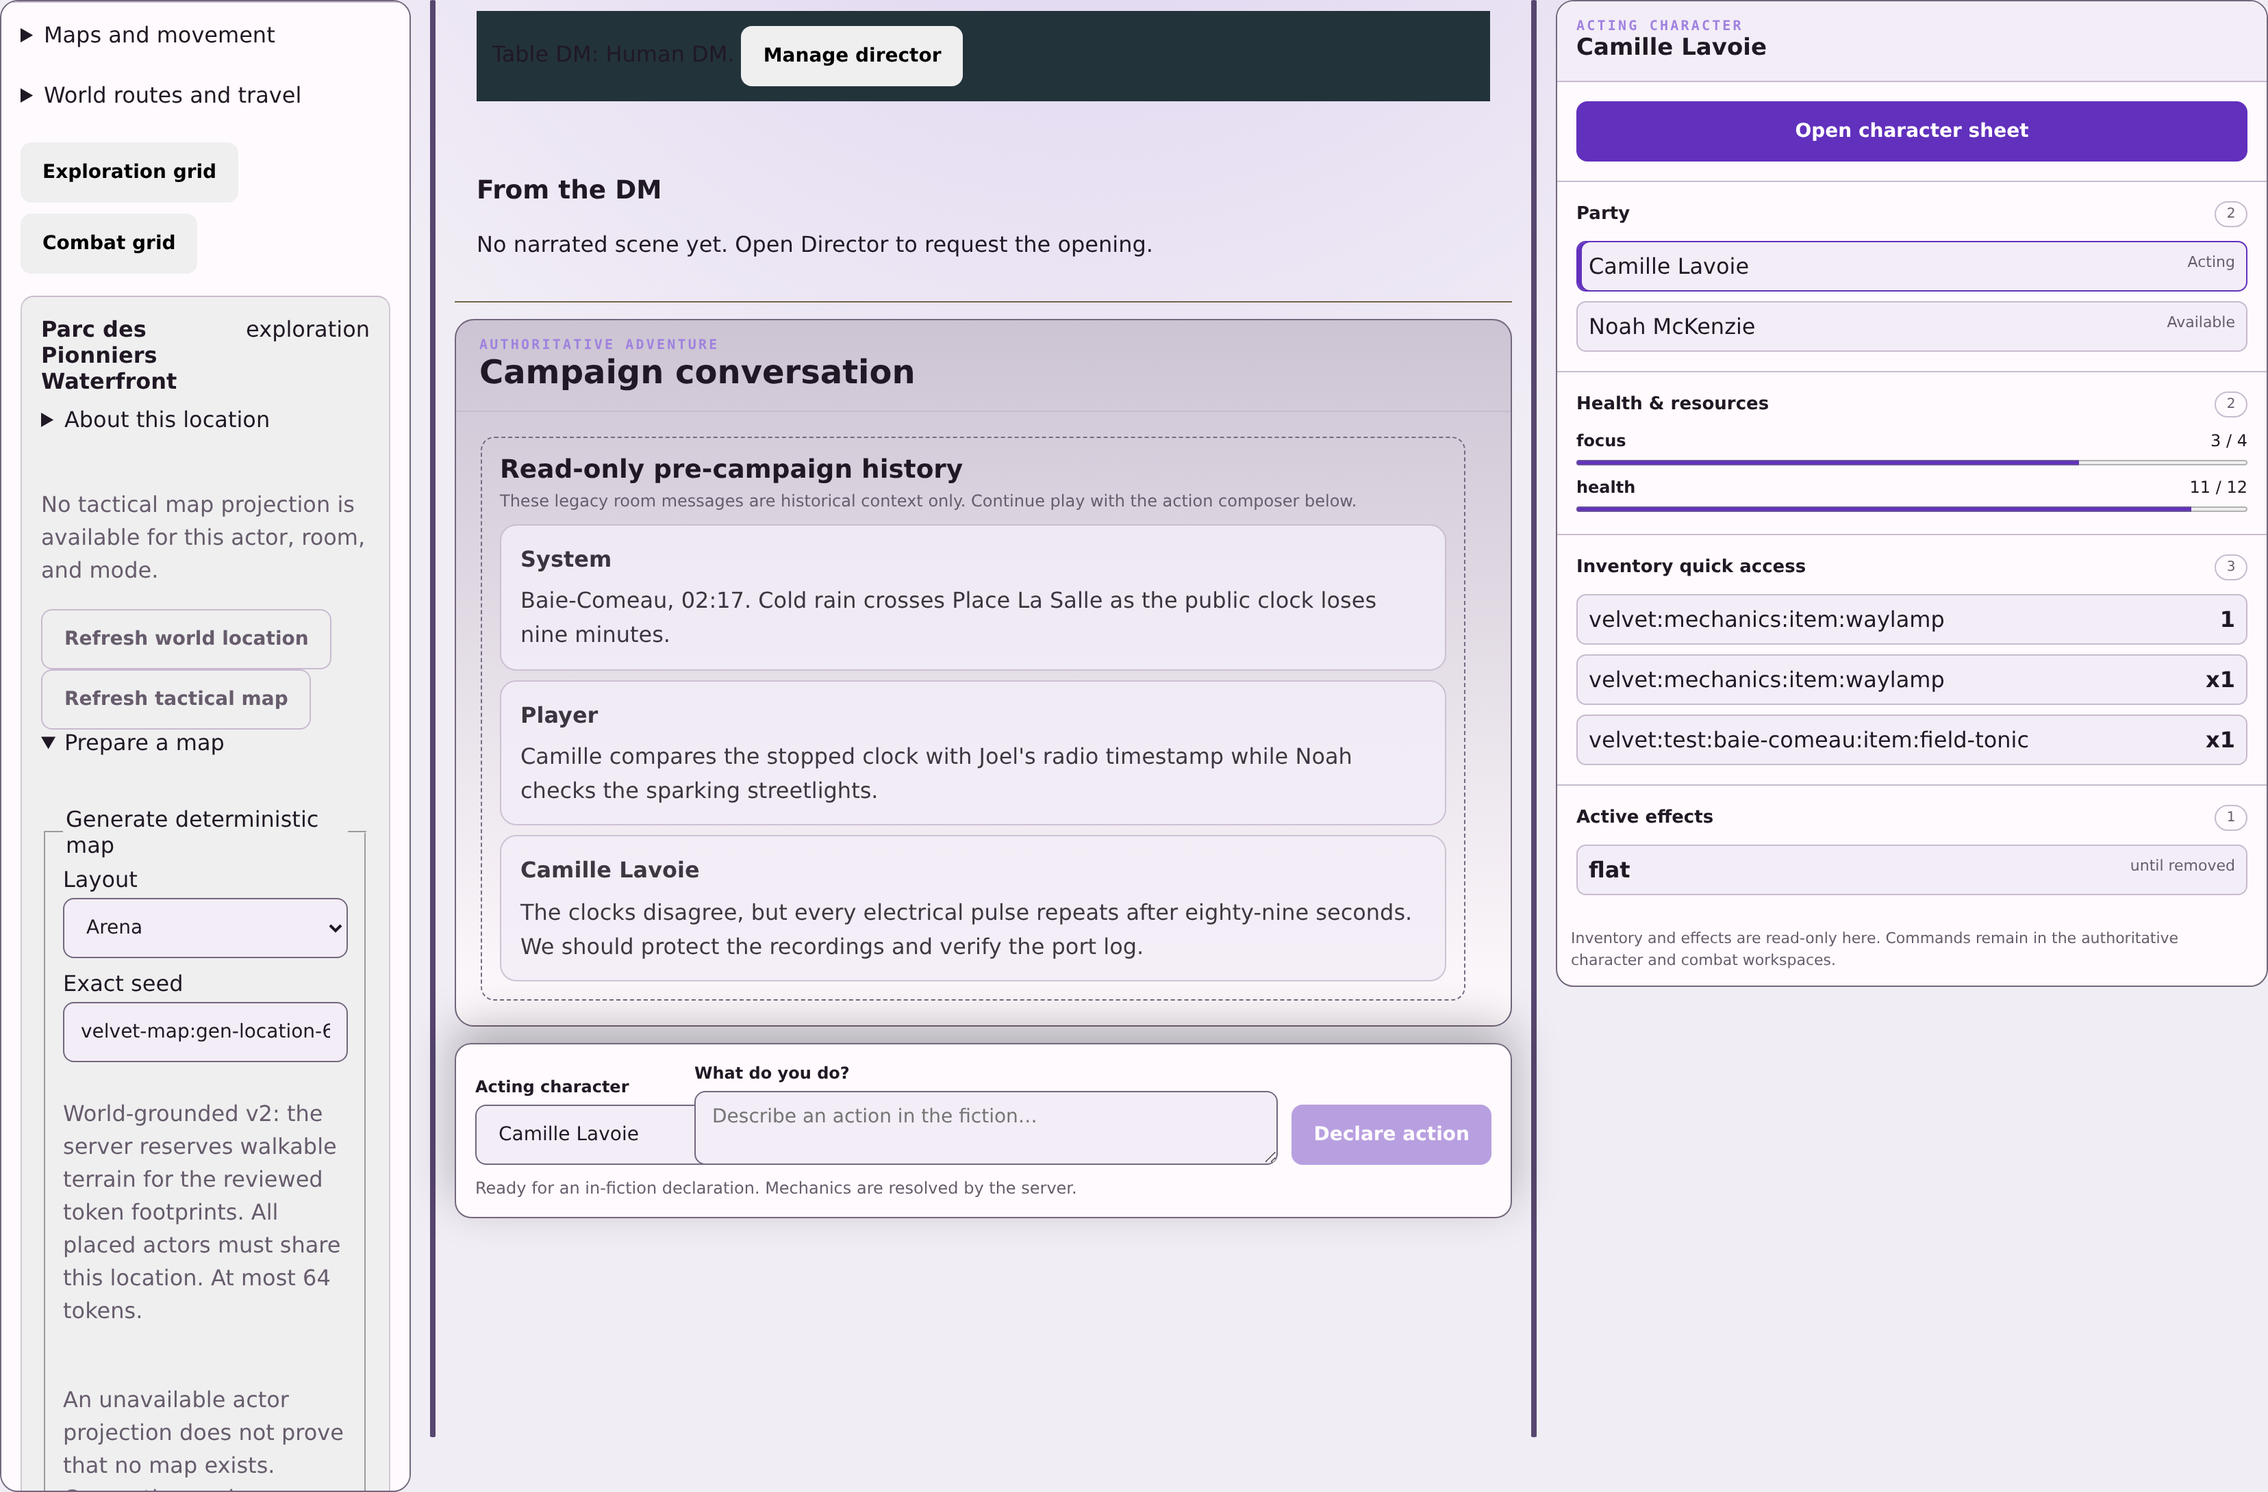
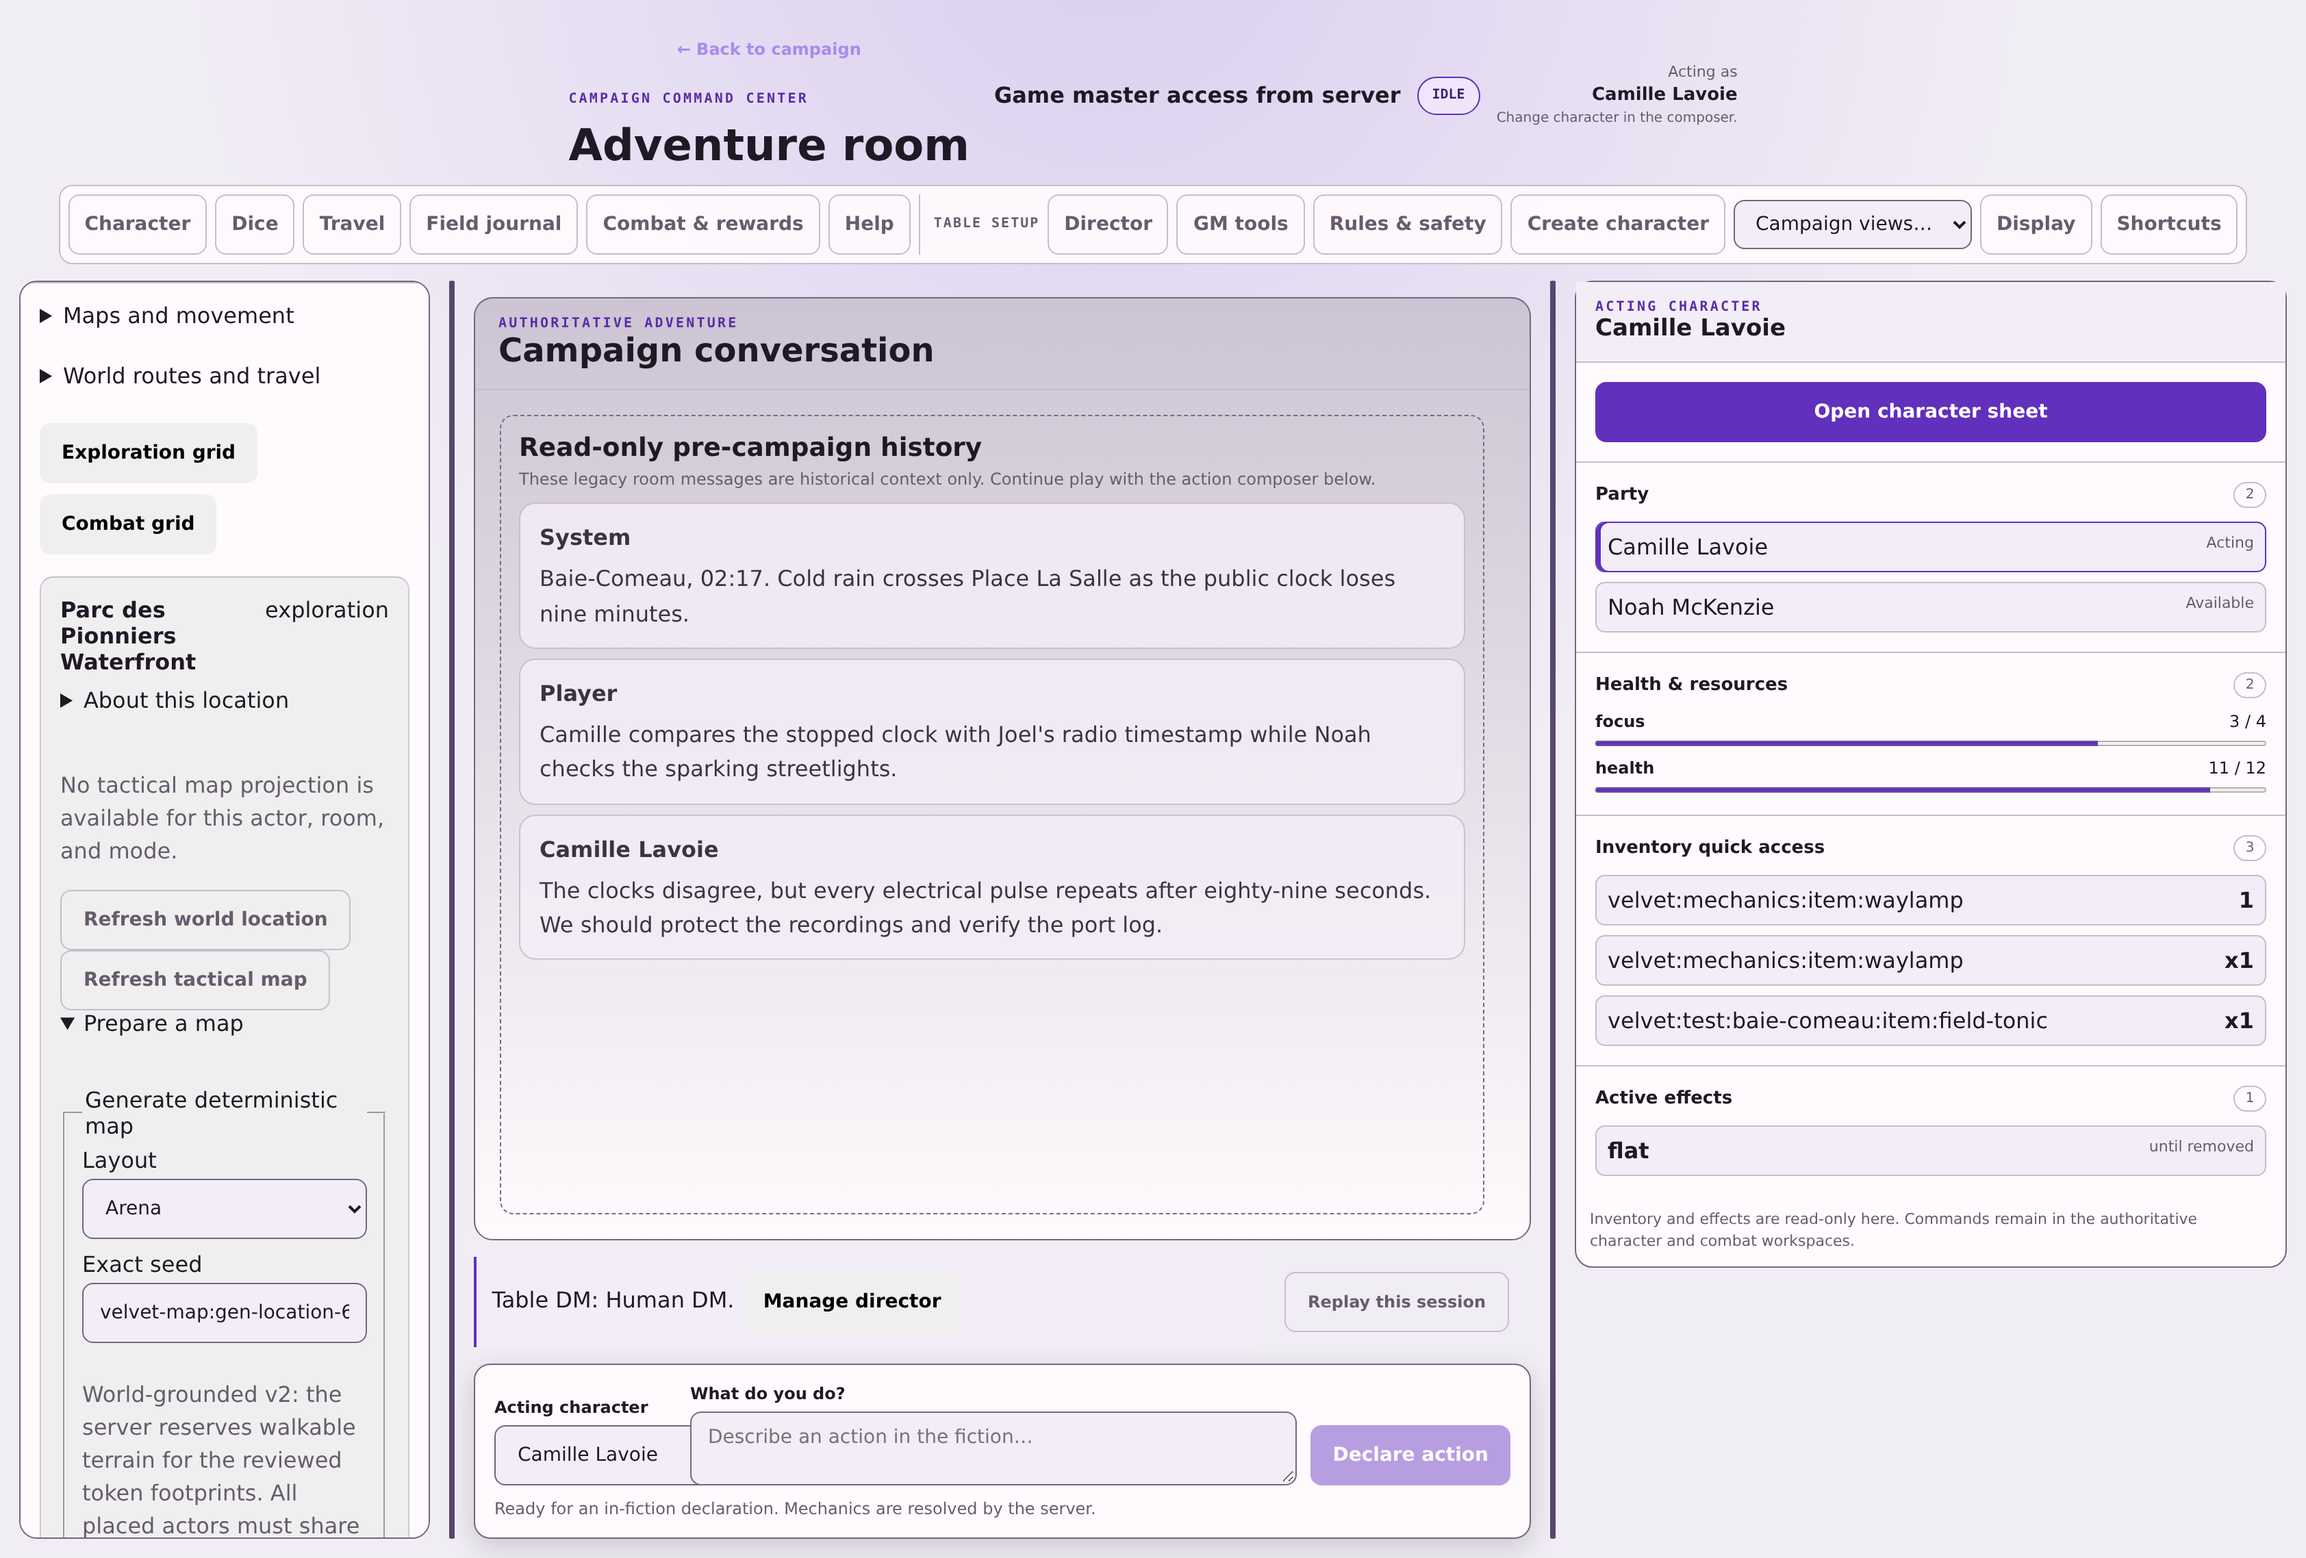
docs: refresh the README screenshots at high resolution
Replaces the seven README screenshots with fresh captures of the seeded, provider-free Baie-Comeau campaign at 1920x1200 (2x). The command center shot now shows the full surface including the separated session/table-setup tool groups, and the tool shots focus on the opened panel so their controls stay legible when scaled down. The cast shot becomes cast-factions, showing the NPC roster, private preparation, factions, and standings.

The capture script is rewritten to shoot the full command center chrome, scroll the tools pane to the opened tool, load a completed combat before capturing the tracker, and cap tall pages. Updates the README captions to match.

diff --git a/README.md b/README.md
@@ -46,9 +46,9 @@ These views are captured from the seeded, provider-free Baie-Comeau campaign at 
 
 ![Campaign library with preparation status](docs/images/campaign-library.png)
 
-**Campaign Command Center** — the authoritative map, narration, and character summary on one screen.
+**Campaign Command Center** — session tools separated from table setup, with the authoritative map, narration, character summary, and composer on one screen.
 
-![Campaign Command Center with authoritative map, narration, and character summary](docs/images/command-center.png)
+![Campaign Command Center with session tools, table setup, map, narration, character summary, and declaration composer](docs/images/command-center.png)
 
 **Director** — human/AI delegation, Open and Continue scene, and private review.
 
@@ -66,9 +66,9 @@ These views are captured from the seeded, provider-free Baie-Comeau campaign at 
 
 ![Encounter lifecycle and reviewed generation](docs/images/combat-tracker.png)
 
-**Cast and companion administration** — create a companion and author an exact grant.
+**Cast and factions** — the NPC roster with GM-only preparation, relationships, factions, and standings.
 
-![Companion administration with an exact grant](docs/images/cast-companion.png)
+![Cast roster, private preparation, factions, and standings](docs/images/cast-factions.png)
 
 ## What Is Shipped
 
